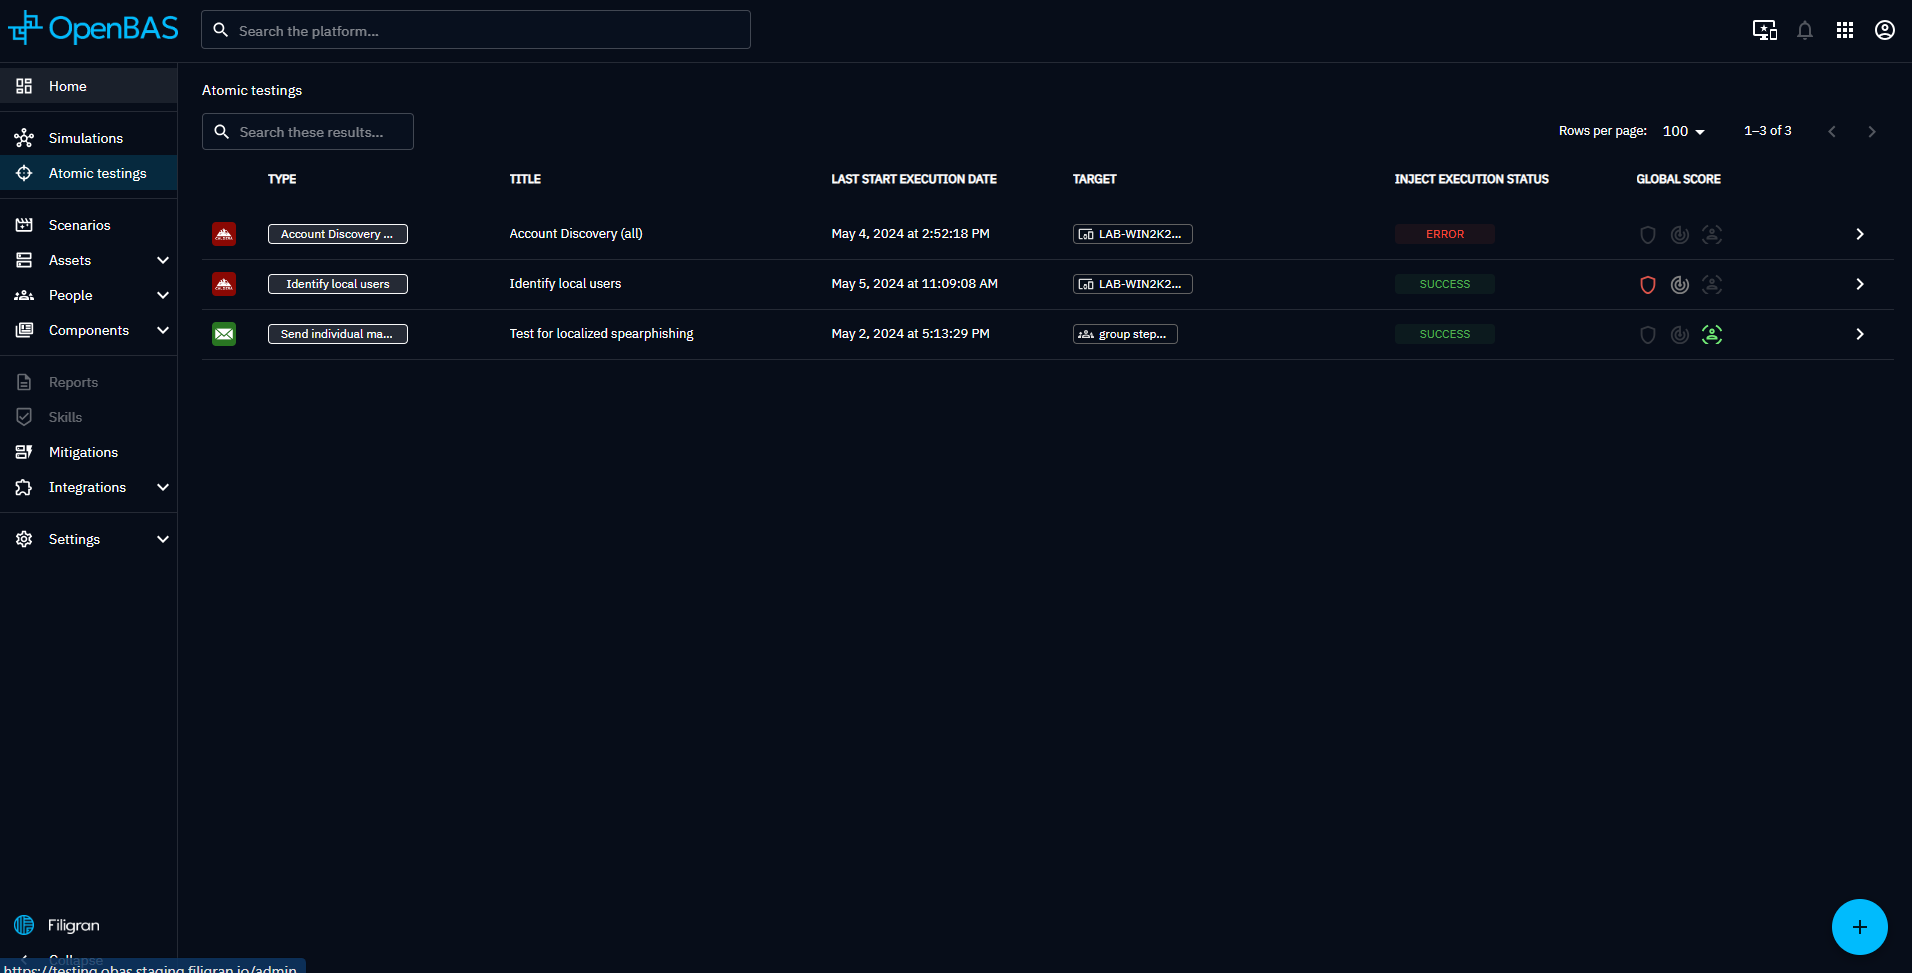
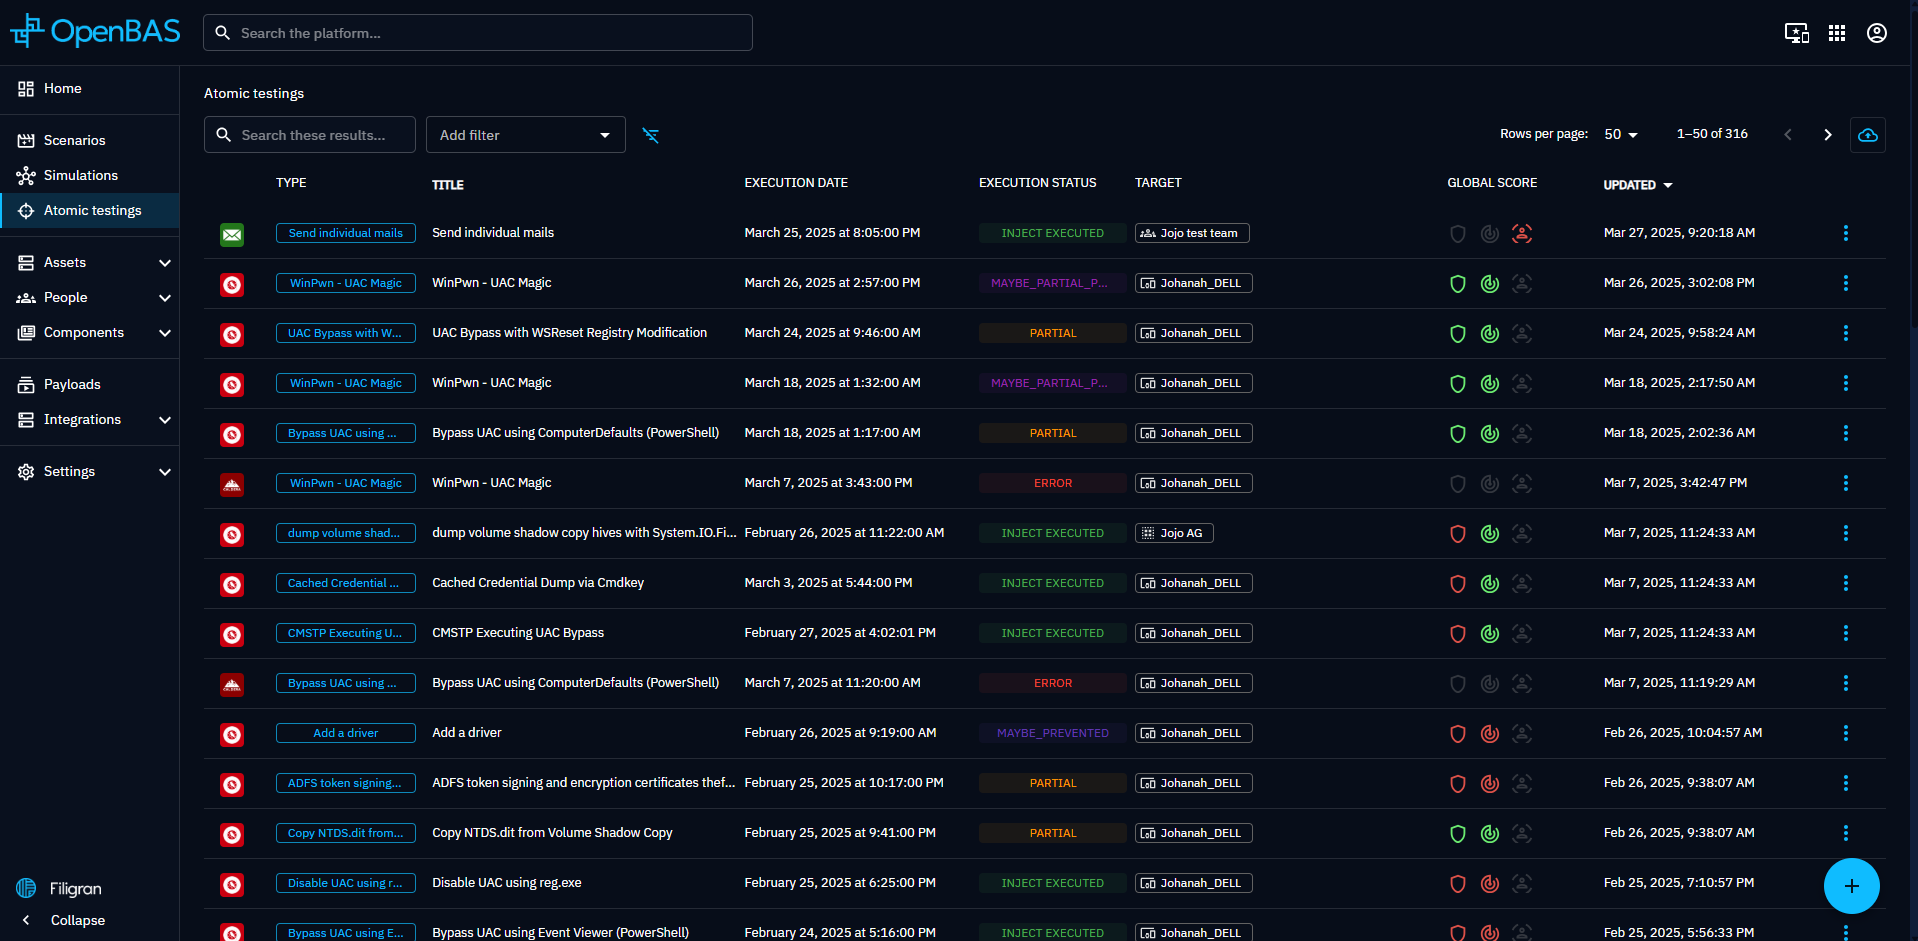
[docs]Update of the atomic testing section (#137)

diff --git a/docs/docs/usage/atomic.md b/docs/docs/usage/atomic.md
@@ -1,21 +1,30 @@
 # Atomic testing
 
-!!! tip "Under construction"
-
-    We are doing our best to complete this page. 
-    If you want to participae, dont hesitate to join the [Filigran Community on Slack](https://community.filigran.io) 
-    or submit your pull request on the [Github doc repository](https://github.com/OpenBAS-Platform/docs).
-
-
 When clicking on Atomic testing in the left menu, you access to the list of all atomic testings ever launched in the platform.
 
 Atomic testing is a great way to simulate a singular attack technique you are particulary interested in, and test immediately your capability to prevent and detect it.
 
-You can search for a specific one by name.
-
 The presented list allows you to easily see global scores of all your recent atomic testings.
 
 ![Example of Atomic testing](assets/atomic_list.png)
+
+## Search the list
+
+You can search the list using the name or one the filters. Here are the available filters for this list.
+
+![Atomic testing filters list](assets/atomic_list_filter_attributes.png)
+
+Once you choose the attribute you want to apply a filter on, you can choose the operator.
+
+![Atomic testing filters operators](assets/atomic_list_filter_operator.png)
+
+Then you have the list of values for the attributes you choose.
+
+![Atomic testing filters attributes values](assets/atomic_list_filter_elements.png)
+
+Here is the list once you apply the filter.
+
+![Atomic testing filters values](assets/atomic_list_filter_result.png)
 
 ## Create an Atomic testing
 
@@ -25,7 +34,7 @@ By clicking on the + button at the bottom right of the screen, you enter the ato
 
 On the left of the creation screen is the list of all available Inject you can play for atomic testing. Logos on the left of each line indicates which Injector is associated with each inject.
 
-Depending on your integrations, this list can be long. You can filter the list by compatible platforms or by Mitre Att&ck tactics.By clicking on the "Att&CK" logo near the search bar, you can also filter by selecting a precise Mitre Att&ck techniques.
+Depending on your integrations, this list can be long. You can filter the list by kill chain phase, injector, compatible platforms or Mitre Att&ck tactics.By clicking on the "Att&CK" logo near the search bar, you can also filter by selecting a precise Mitre Att&ck techniques.
 
 When selecting an inject on the left, the form on the right populates itself with a by-default title and propose you to define when the inject should be played after the launch of the atomic testing. You can keep it to 0.
 
@@ -65,4 +74,11 @@ You can also see the raw execution logs of the [Injector](injectors.md) responsi
 
 ![Execution trace of a successfull atomic testing](assets/atomic_testing_execution_details.png)
 
+For technical injects, you can see the raw execution logs of the agents that executed the test.
 
+![Execution trace of a successfull atomic testing with openBAS agent](assets/atomic_testing_execution_details_technical.png)
+
+### Payload info
+This screen is available for technical injects only. You can see the details of the payload related to the test.
+
+![Payload info of atomic testing](assets/atomic_testing_payload_info.png)
